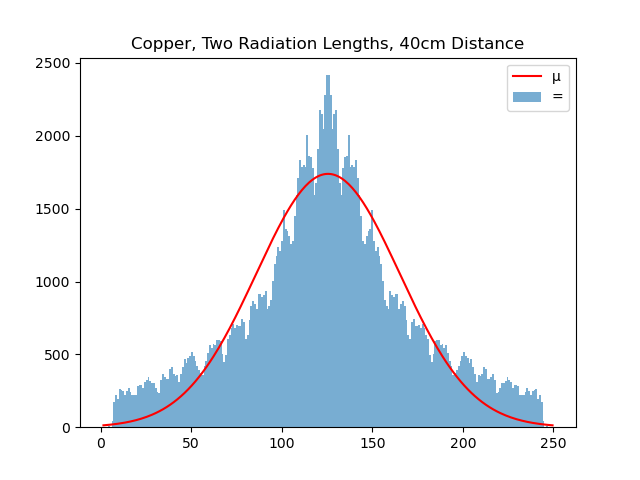
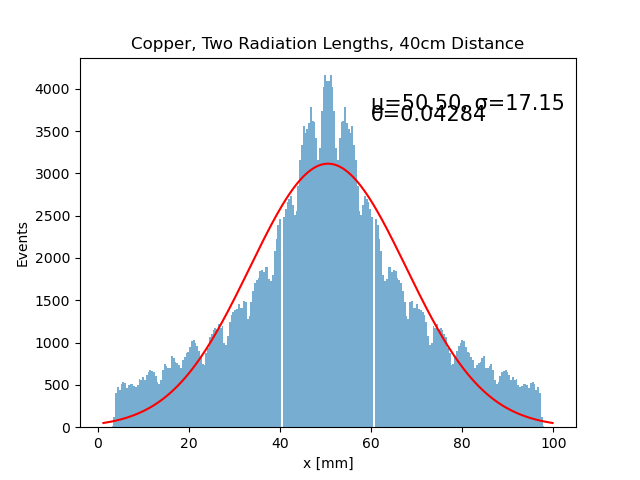
labeling and standard deviation in angle (radiants)

diff --git a/src/elsa/dataReader.py b/src/elsa/dataReader.py
@@ -1,0 +1,119 @@
+import uproot as up
+import numpy as np
+import matplotlib.pyplot as plt
+from collections import Counter
+from scipy.optimize import curve_fit
+
+def drawHistograms(file, histogramArray, indexTranslation):
+    for i in histogramArray:
+
+        mm_strip = file[i]["raw"]["mm_strip"].array(library="np")
+        apv_id = file[i]["raw"]["apv_id"].array(library="np")
+        event_id = file[i]["data"]["apv_qmax"].array(library="np")
+        mm_strip = np.concatenate(mm_strip)
+        apv_id = np.concatenate(apv_id)
+        event_id = np.concatenate(event_id)
+        
+        event_counts = Counter(event_id)
+
+
+        #filter out unprecise data to eliminate local jitters
+        valid_events = {eid for eid, count in event_counts.items() if count < 800}
+        mask = np.isin(event_id, list(valid_events))
+
+        mm_strip = mm_strip[mask]
+        apv_id = apv_id[mask]
+
+        #divide mm strip into x and y data with apv_id
+        x_strip = mm_strip[(apv_id == 0) | (apv_id == 1)]
+        y_strip = mm_strip[(apv_id == 2) | (apv_id == 3)]
+
+        #swap out the left and right side to account for weird apv placement
+        y_strip[y_strip >= 126] -= 250
+        y_strip[y_strip >= 1] += 125
+        y_strip[y_strip<=0] += 125 
+        
+        #convert the bin count into mm
+        y_strip = y_strip / 2.5  +1
+
+        #these are now arrays that list the individual counts, such that the size of this array is the amount of data collected.
+        #I will transform this into two arrays, both 250 long (the amount of buckets)
+        #such that one records the size of the bucket, and the other the bucket number.
+        counts, edges = np.histogram(y_strip, bins=250, range=(1,100))
+        centers = 0.5 * (edges[:-1] + edges[1:])
+        
+        #mirroring the Array so that the data becomes easier to analyze and the sensitivity difference between apvs is ignored.
+        counts = mirrorArrayLeft(counts)
+
+
+
+
+
+        #Now start a gauss fit by doing an initial guess
+        #[amplitude, mean, stddev]
+        p0 = [np.max(counts), centers[np.argmax(counts)], 10, 500]
+        
+        #fit with scipy
+        popt, pcov = curve_fit(gauss, centers, counts, p0=p0)
+
+
+        plt.bar(centers, counts, width=edges[1] - edges[0], alpha=0.6, label="Data")
+        plt.plot(centers, gauss(centers, *popt), color='red', label="Gaussian Fit")
+        
+        plt.xlabel("x [mm]")
+        plt.ylabel("Events")
+        plt.text(60,np.max(counts) - np.max(counts)/10, f"μ={popt[1]:.2f}, σ={popt[2]:.2f}", fontsize=15)
+        plt.text(60,np.max(counts) - 1.3*np.max(counts)/10, "θ=" + str(np.round(np.arctan(popt[2]/400), 5)), fontsize=15)
+        plt.title(indexTranslation[i])
+        plt.savefig("finished_plots/" + indexTranslation[i] + ".png")
+
+
+
+        plt.show()
+        
+
+
+def openfile():
+    file = [
+            up.open("../../data/elsa/no_target/run82.root"),
+            up.open("../../data/elsa/half_radiation_length/aluminium_5cm/distance_40cm/run87.root"),
+           up.open("../../data/elsa/radiation_length/aluminium_9cm93/distance_40cm/run88.root"),
+            up.open("../../data/elsa/double_radiation_length/aluminium_21cm/distance_40cm/run85.root"),
+            up.open("../../data/elsa/triple_radiation_length/aluminium_27cm39/distance_40cm/run93.root"),
+
+            up.open("../../data/elsa/half_radiation_length/copper_0cm7/distance_40cm/run91.root"),
+            up.open("../../data/elsa/radiation_length/copper_1cm48/distance_40cm/run90.root"), 
+            up.open("../../data/elsa/double_radiation_length/copper_2cm96/distance_40cm/run89.root"),
+            up.open("../../data/elsa/triple_radiation_length/copper_4cm36/distance_40cm/run94.root")
+            ]
+    return file
+
+def mirrorArrayLeft(Array):
+    half = len(Array) // 2
+    return np.concatenate([Array[:half], Array[half-1::-1]])
+
+def gauss(x, A, mu, sigma, b):
+    return A * np.exp(-(x - mu)**2 / (2 * sigma**2))
+
+
+noMaterialIndex = 0
+AluminiumIndex = [1,2,3,4]
+CopperIndex = [5,6,7,8]
+#first index is half radiation length, last is triple.
+
+indexTranslation = [
+    "no target",
+    "Aluminium, Half Radiation Length, 40cm Distance",
+    "Aluminium, One Radiation Length, 40cm Distance",
+    "Aluminium, Two Radiation Lengths, 40cm Distance",
+    "Aluminium, Three Radiation Lengths, 40cm Distance",
+    "Copper, Half Radiation Length, 40cm Distance",
+    "Copper, One Radiation Length, 40cm Distance",
+    "Copper, Two Radiation Lengths, 40cm Distance",
+    "Copper, Three Radiation Lengths, 40cm Distance"
+        ]
+files = openfile()
+
+#Use this array to show which histograms you want to analyze and plot
+histogramArray = [0,1,2,3,4,5,6,7,8]
+drawHistograms(files, histogramArray, indexTranslation)
